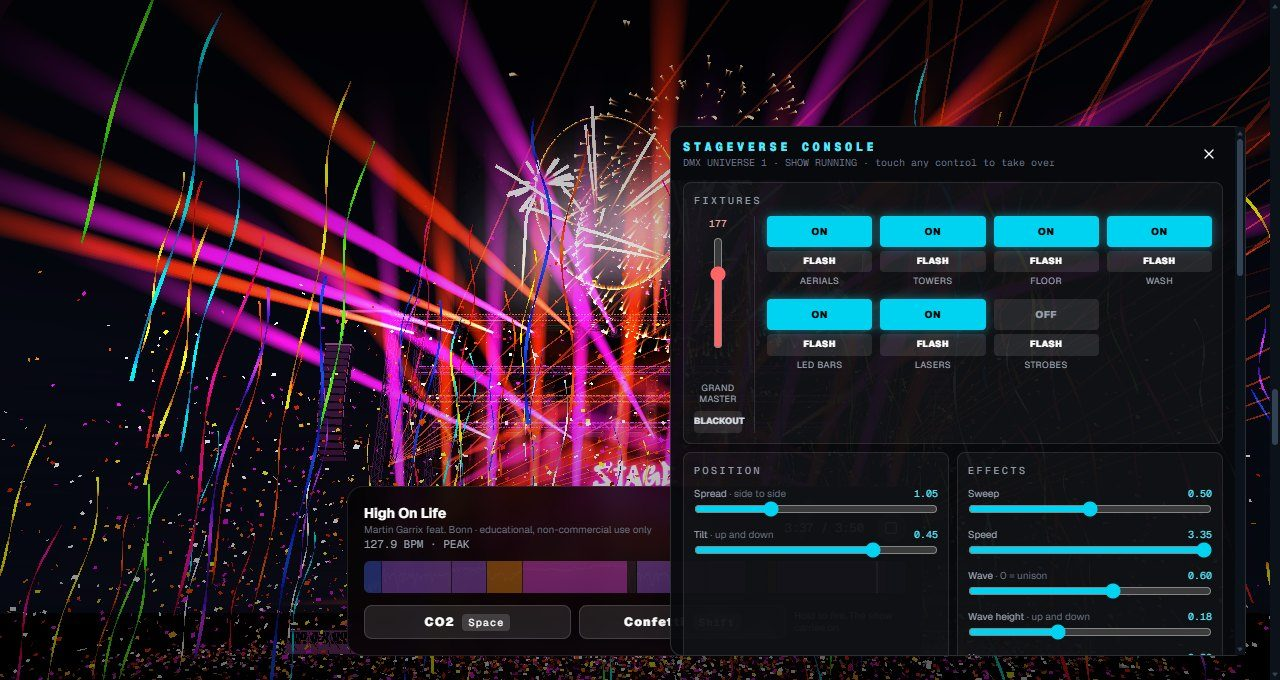
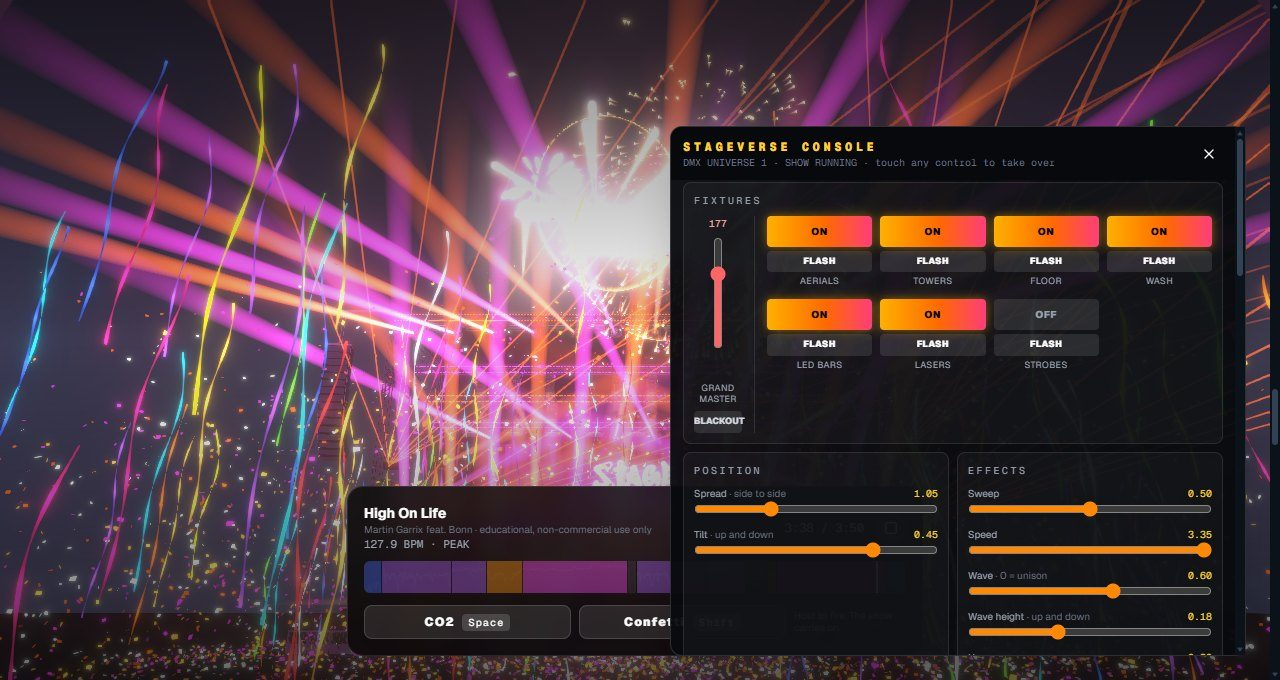
fix(show): a finale flicker; feat: author credit; docs and README media in the new palette
- BUG-33: single fully black frames at the busiest moments of a fireworks
  finale (one NaN or infinite pixel in the half-float bloom buffer, blurred
  over the whole frame). The fireworks fragment shader drops NaN pixels and
  caps brightness: 3 black frames in 62 before, 0 in 158 after
- "Designed and built by Priyansh Waghela" (linked) in both footer layouts
  and on the loading screen; authors, creator and publisher in the page
  metadata; a credit and copyright line in the README
- README: the banner and badges in the palette, a Design section, the
  screenshots and recordings recaptured in the new palette
- docs: homepage-show, FIX_LOG (BUG-33, palette, credit), UPGRADE_PLAN

diff --git a/components/MainFooter.jsx b/components/MainFooter.jsx
@@ -2,6 +2,7 @@
 import Link from "next/link";
 import { Twitter, Facebook, Instagram, Youtube, BarChart3 } from "lucide-react";
 import Logo from '@/components/brand/Logo';
+import BuiltBy from "@/components/brand/BuiltBy";
 
 const MainFooter = ({ isLoggedIn = false }) => {
   
@@ -50,7 +51,7 @@ const MainFooter = ({ isLoggedIn = false }) => {
           </div>
         </div>
         <div className="mt-8 text-center text-xs text-[#90b2cb]">
-          © {new Date().getFullYear()} StageVerse. All rights reserved.
+          © {new Date().getFullYear()} StageVerse. <BuiltBy />. All rights reserved.
           <p className="mt-2">Songs on this site are used for educational, non-commercial purposes only. All rights belong to their respective owners.</p>
         </div>
       </footer>
@@ -92,7 +93,7 @@ const MainFooter = ({ isLoggedIn = false }) => {
         </div>
 
         <div className="mt-8 text-center text-xs text-slate-500">
-          © {new Date().getFullYear()} StageVerse. All rights reserved.
+          © {new Date().getFullYear()} StageVerse. <BuiltBy />. All rights reserved.
           <p className="mt-2">Songs on this site are used for educational, non-commercial purposes only. All rights belong to their respective owners.</p>
         </div>
       </div>

diff --git a/components/home/show/LoadingScreen.jsx b/components/home/show/LoadingScreen.jsx
@@ -2,6 +2,7 @@
 
 import { useEffect, useState, useSyncExternalStore } from 'react';
 import Logo from '@/components/brand/Logo';
+import BuiltBy from '@/components/brand/BuiltBy';
 import { PART_LABELS, getReady, subscribeReady } from './stageReady';
 
 // Revealed at the latest after this long, whatever is still loading (a slow network or driver
@@ -69,7 +70,10 @@ export default function LoadingScreen() {
             </div>
 
             <div className="relative flex flex-col items-center gap-8 px-6">
-                <Logo size="lg" />
+                <div className="flex flex-col items-center gap-3">
+                    <Logo size="lg" />
+                    <BuiltBy className="text-xs tracking-wide text-white/60" />
+                </div>
                 <div className="w-64 max-w-[70vw]">
                     <div className="h-1 w-full overflow-hidden rounded-full bg-white/10">
                         <div

diff --git a/components/home/stage/Fireworks.jsx b/components/home/stage/Fireworks.jsx
@@ -375,6 +375,12 @@ const FRAGMENT = /* glsl */ `
             vec3 core = mix(vColor, vec3(1.0, 0.97, 0.9), 0.75 * (1.0 - vHeat)); // white-hot while fresh
             c = (trail * tail * 0.9 + core * head * 1.6 + vColor * halo) * vGlow * 3.2;
         }
+        // Guard the bloom buffer: one NaN or infinite pixel (a star at a degenerate moment, or dozens of
+        // additive stars stacked at a burst) is blurred by bloom over the whole frame, which then
+        // flashes black. A NaN fails every comparison, so it's dropped; brightness is capped well inside
+        // what the half-float buffer holds.
+        if (!(c.r >= 0.0 && c.g >= 0.0 && c.b >= 0.0)) discard;
+        c = min(c, vec3(24.0));
         if (max(c.r, max(c.g, c.b)) < 0.002) discard;
         gl_FragColor = vec4(c, 1.0);
     }

diff --git a/components/brand/BuiltBy.jsx b/components/brand/BuiltBy.jsx
@@ -1,0 +1,15 @@
+// The author credit: StageVerse is designed and built by Priyansh Waghela. Shown in the site footer
+// and on the loading screen, and set as the site's author in the page metadata (app/layout.js).
+export const AUTHOR = { name: 'Priyansh Waghela', url: 'https://www.linkedin.com/in/priyansh-waghela-3b754b282/' };
+
+export default function BuiltBy({ className = '' }) {
+    return (
+        <span className={className}>
+            Designed and built by{' '}
+            <a href={AUTHOR.url} target="_blank" rel="noopener noreferrer author"
+                className="font-bold bg-gradient-to-r from-[#ffb000] via-[#ff6a00] to-[#ff3d7a] bg-clip-text text-transparent hover:opacity-80 transition-opacity">
+                {AUTHOR.name}
+            </a>
+        </span>
+    );
+}

diff --git a/app/layout.js b/app/layout.js
@@ -18,6 +18,10 @@ const inter = Inter({
 
 export const metadata = {
   title: "StageVerse: the entire concert ecosystem",
+  // the author: StageVerse is designed and built by Priyansh Waghela
+  authors: [{ name: "Priyansh Waghela", url: "https://www.linkedin.com/in/priyansh-waghela-3b754b282/" }],
+  creator: "Priyansh Waghela",
+  publisher: "Priyansh Waghela",
   description: "Discover live shows, vote on the setlist, and run production: one platform for fans, artists, organizers and crew.",
 };
 

diff --git a/README.md b/README.md
@@ -4,6 +4,7 @@
 
 <h1 align="center">⚡ StageVerse</h1>
 <p align="center"><b><i>Bridging live event production and systems engineering</i></b></p>
+<p align="center">Designed and built by <a href="https://www.linkedin.com/in/priyansh-waghela-3b754b282/"><b>Priyansh Waghela</b></a></p>
 
 <p align="center">
   <a href="https://stage-verse.vercel.app/"><img alt="Live site" src="https://img.shields.io/badge/live-stage--verse.vercel.app-ff3df2?style=for-the-badge&logo=vercel&logoColor=white"></a>
@@ -11,7 +12,7 @@
 </p>
 <p align="center">
   <img alt="Next.js 16" src="https://img.shields.io/badge/Next.js-16-000000?style=flat-square&logo=nextdotjs&logoColor=white">
-  <img alt="React 19" src="https://img.shields.io/badge/React-19-19d9ff?style=flat-square&logo=react&logoColor=black">
+  <img alt="React 19" src="https://img.shields.io/badge/React-19-a855f7?style=flat-square&logo=react&logoColor=white">
   <img alt="three.js" src="https://img.shields.io/badge/three.js-R3F-a855f7?style=flat-square&logo=threedotjs&logoColor=white">
   <img alt="MongoDB" src="https://img.shields.io/badge/MongoDB-Mongoose_9-00ed64?style=flat-square&logo=mongodb&logoColor=black">
   <img alt="Socket.IO" src="https://img.shields.io/badge/Socket.IO-4-ffb000?style=flat-square&logo=socketdotio&logoColor=black">
@@ -96,6 +97,10 @@ The crew's patch sheet downloads the show's patch as a grandMA3 XML file ([`lib/
 | **Production crew** | Live cue screen synced to the artist, DMX patch studio with an AI patch assistant and grandMA3 export, logistics board, tasks |
 
 ---
+
+## 🎨 Design
+
+The whole site uses one palette taken from the logo: the sunset of "Verse" (amber `#ffb000` → orange `#ff6a00` → pink `#ff3d7a`) for main buttons and fills (the `sv-sunset` utility in `app/globals.css`), the logo's purple `#a855f7` for outlines, rings and focus, and white for labels. The 3D light show keeps its own full colour range.
 
 ## 🚀 Architecture
 
@@ -248,3 +253,7 @@ docs/           design notes, manual test guide, deployment guide
 Developed by **Priyansh Waghela**, Information Technology Engineering student at Dwarkadas J. Sanghvi College of Engineering (DJSCE), Mumbai.
 
 *For software architecture inquiries, placement collaborations, or professional outreach, connect on **[LinkedIn](https://www.linkedin.com/in/priyansh-waghela-3b754b282/)** or see my work on **[GitHub](https://github.com/Priyanshh1407)**.*
+
+---
+
+<p align="center"><sub>© 2026 Priyansh Waghela. StageVerse, its code, design and light-show engine are designed and built by Priyansh Waghela. The demo songs belong to their respective owners (see the <a href="#-disclaimer">disclaimer</a>).</sub></p>

diff --git a/FIX_LOG.md b/FIX_LOG.md
@@ -387,3 +387,29 @@ Fix: sweep, fan, tilt, wave, spread, speed and convergence follow a critically d
 - Tried and removed: flames, cold sparks, the waterfall and shaped shells.
 
 `npm test`: **392 passing** (36 files) · lint: **0 errors** · build: passes.
+
+## Site palette, a finale flicker and the author credit (2026-11-06)
+
+### BUG-33 — Single black frames during a fireworks finale (commit pending)
+Symptom: README captures of the High On Life finale had an occasional completely black frame, stage and fireworks
+included; frames without fireworks never did.
+Investigation: per-frame brightness logging in a headless production build. Not the strobe (its frames are white
+flashes), not the quality step-down (the canvas never resized), not the first flash of a session. 3 black frames in
+62 during the finale, 0 in 65 in a stretch with no fireworks.
+Root cause: one NaN or infinite pixel from the stacked additive fireworks stars in the half-float bloom buffer; bloom
+blurs it over every pixel, so the whole frame goes black for that frame.
+Fix: the fireworks fragment shader discards NaN pixels (a NaN fails every comparison) and caps brightness at 24.
+Result: 0 black frames in 158 finale frames over two runs.
+Interview version: "A black flash that only appeared when the sky was full of fireworks. I measured frame brightness
+to rule out the strobe and the quality step-down, then recognised the bloom signature: one bad pixel becomes a
+black frame. A NaN-safe guard and a brightness cap in the fireworks shader removed it."
+
+### Palette (feature)
+The site was blue and cyan while the logo is white with a sunset "Verse". A codemod (132 files) mapped every blue
+utility by role to the logo's colours: `sv-sunset` gradient for main fills, amber or orange text, orange tints,
+purple borders, rings and focus; shadcn tokens updated. A Tailwind 4 catch: a custom `@utility bg-sunset` was never
+generated (read as `bg-<colour>`), so it's `sv-sunset`.
+
+### Author credit (feature)
+"Designed and built by Priyansh Waghela" (linked) in both footer layouts and on the loading screen; `authors`,
+`creator` and `publisher` in the page metadata; a credit and copyright line in the README.

diff --git a/docs/homepage-show.md b/docs/homepage-show.md
@@ -533,3 +533,19 @@ the poster tier doesn't wait for 3D. Measured: revealed at about 6 s on the Iris
   briefly as a song starts.
 - **Closer** corrected by ear: drops at 1:11, 2:30 and 3:33 (its sung choruses are louder than its drops, so the
   analysis took them for the drops).
+
+## Site palette and a finale flicker (Nov 2026)
+
+- **One palette from the logo.** Every page's blues and cyans were replaced (132 files, by a codemod mapping each
+  Tailwind utility by role): main fills use the `sv-sunset` gradient (amber, orange, pink), text accents amber on
+  dark pages and orange in the dashboards (readable in light mode), tinted backgrounds orange, borders, rings and
+  focus the logo's purple; the shadcn `--primary` and `--ring` tokens follow. The homepage overlays (player bar,
+  live CO2/confetti buttons, genre picker, lighting desk) use it too; the 3D stage and light-show colours don't.
+  The utility is called `sv-sunset`, not `bg-sunset`: Tailwind 4 read `bg-sunset` as its own `bg-<colour>`
+  utility with an unknown colour and generated nothing.
+- **Finale flicker fixed.** At the busiest moments of a finale an occasional frame went completely black: one
+  NaN or infinite pixel from the stacked additive stars in the half-float bloom buffer is blurred by bloom over the
+  whole frame. The fireworks fragment shader now drops NaN pixels (they fail every comparison) and caps brightness;
+  measured 3 black frames in 62 before, 0 in 158 after (headless capture of the High On Life finale).
+- **Author credit**: "Designed and built by Priyansh Waghela" in the site footer and on the loading screen, and the
+  page metadata names him as author and creator (`components/brand/BuiltBy.jsx`).

diff --git a/UPGRADE_PLAN.md b/UPGRADE_PLAN.md
@@ -20,6 +20,7 @@ A third flagship (concurrency-safe ticketing, UPG-01) comes back when ticketing 
 - **326 tests** (30 files) passing · lint 0 errors · build passes. Work since 2026-10-29 is on `upg-04-homepage` (local, not yet pushed).
 - Open (developer): Atlas password rotation; a test import of the grandMA3 export in grandMA3 onPC; listening through the demo songs' section marks.
 - Homepage special effects done (Nov 2026): CO2 jets (floor and truss), confetti, streamers, stage pyro and a song-driven fireworks finale; live CO2/confetti keys during a song; a loading screen. Flames and cold sparks were tried and dropped.
+- One site palette from the logo (sunset, purple, white), a finale flicker fix (BUG-33), and an author credit in the footer, loading screen and metadata (Nov 2026). A light theme is being considered (preview shared; not decided).
 - Next: the demo video and the re-audit.
 
 Earlier (2026-10-27): Phases 0–2 done on branches `phase-0-safety-net` → `phase-1-security` → `phase-2-correctness`, 139 tests. Also fixed beyond the plan: BUG-13 (guest list hardcoded to event 13), BUG-14 (production couldn't create shows at new venues), artist message/notification scoping, a regression from my own ERR-01 codemod (login catch).
